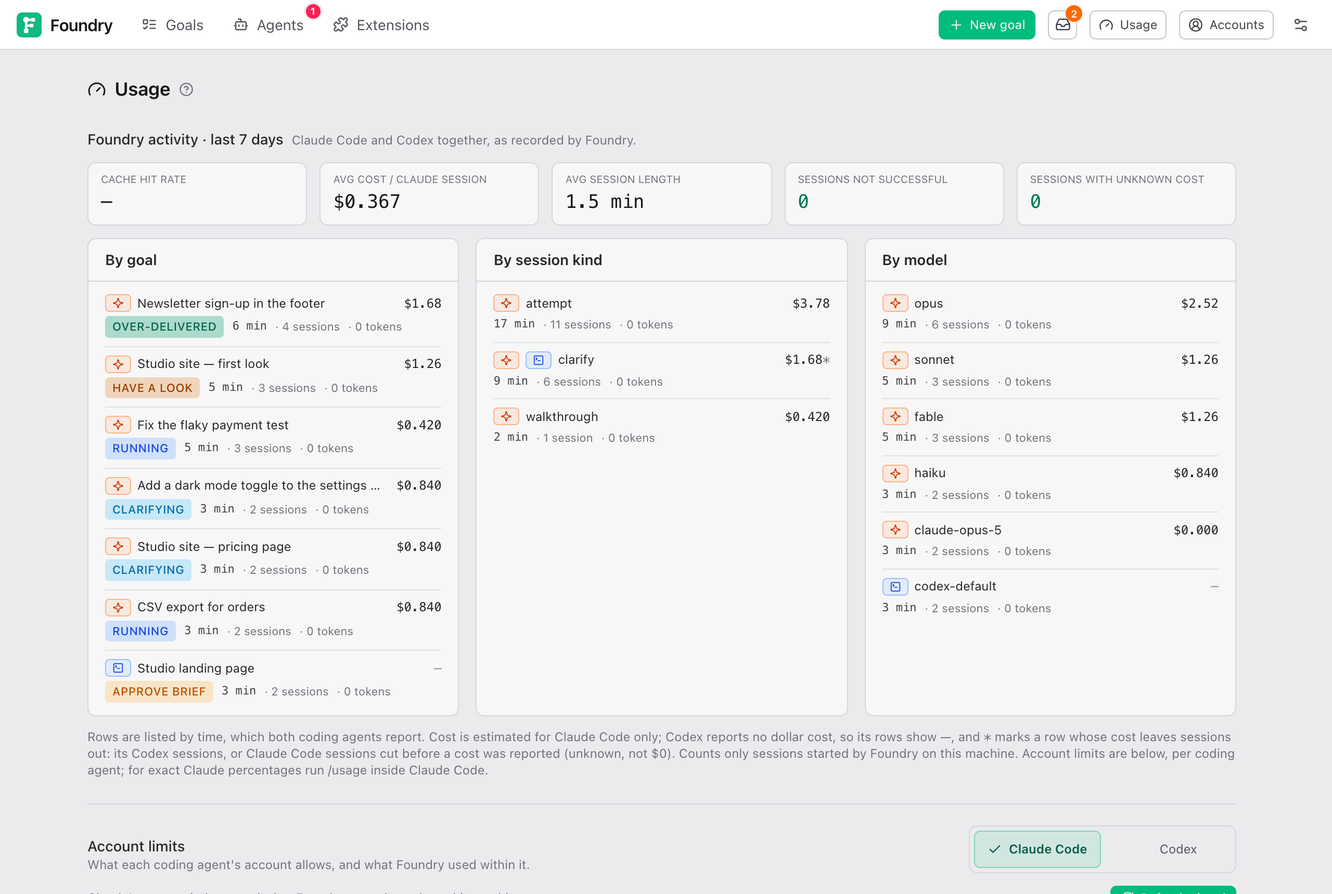
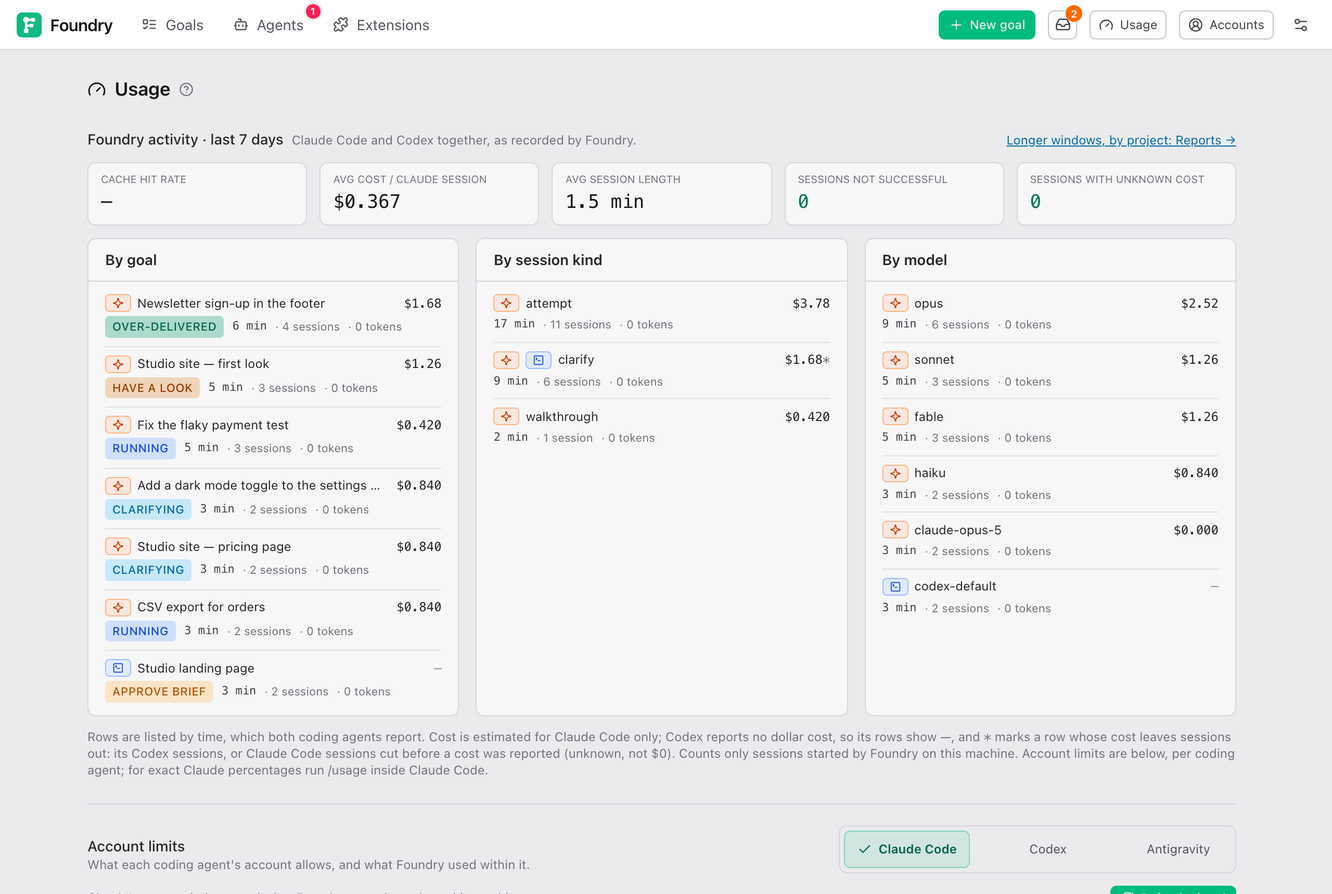
docs: the Antigravity CLI as a third coding agent (ADR-0064)
ADR-0064 records the choice (the Gemini CLI's successor, driven over its stream-json print mode with the guard and canary as workspace hooks, tokens not dollars, one model and effort per goal) and what is not verified here: no Antigravity account ran it, so the first real session has three things to confirm. docs/operate/antigravity.md is the operator guide beside codex.md; the user guide, install, remote-access, CONTEXT, README, architecture and the generated settings and CLI references now name three agents.

Changed region(s): [[0.625, 0.9244, 0.8125, 0.986], [0.75, 0.1541, 0.9062, 0.1849], [0.875, 0.9244, 0.9062, 0.9552]]

diff --git a/docs/operate/antigravity.md b/docs/operate/antigravity.md
@@ -1,0 +1,55 @@
+# Run Foundry with Antigravity
+
+Foundry can drive Claude Code, Codex CLI or the Antigravity CLI (`agy`, Google's successor to the Gemini CLI). All three share the goal, interview, Brief, worktree, acceptance-check, review and delivery engine; the launch profile selects defaults and the data directory, and each new goal picks its coding agent, which all of its sessions keep.
+
+## Shared engine, what Antigravity brings
+
+| Shared within one Foundry instance | Scoped to Antigravity |
+| --- | --- |
+| Goals, Briefs, worktrees, checks, reviews, delivery and event history | The native CLI process, conversation ids and the account it signed in with |
+| Global concurrency budget and notifications | One model and one reasoning effort for every role; `agy models` fills the list |
+| One Settings page and the same Coding agent selector | The skills in a project's `.agents/skills` and the shared `~/.agents/skills`; plugins and MCP servers managed in agy itself |
+| One Usage page and Agents monitor | Token counts (no USD cost, no account quota) |
+
+## From source
+
+Install Bun and git, then the Antigravity CLI (1.1.15 or newer: print mode with stream-json input) and sign in once from a terminal, which opens the browser:
+
+```sh
+curl -fsSL https://antigravity.google/cli/install.sh | bash   # or: brew install --cask antigravity-cli
+agy                                                            # sign in, then /quit
+bun install --frozen-lockfile
+bun run web:build
+bun run serve:agy
+```
+
+Open <http://127.0.0.1:4111>. Setup checks **Antigravity CLI** and **Antigravity sign-in**; the Accounts page shows the account the CLI is signed in with and says to run `agy` in a terminal when it is not. Foundry drives neither the sign-in nor the sign-out (`/logout` inside agy). A `GEMINI_API_KEY` works the way the CLI documents it: `modelProvider: gemini` in `~/.gemini/antigravity-cli/settings.json` and the key in the environment Foundry starts with.
+
+`bun run dev:agy` starts the development watcher. The equivalent production command is `FOUNDRY_PROVIDER=agy bun run serve`. The Antigravity launch profile defaults to `data-agy/`; set `FOUNDRY_DATA_DIR` for another place. Existing goals keep their backend.
+
+## Models and configuration
+
+Settings → **Models & limits** → **Coding agent → Antigravity** holds the **Antigravity model** every role of a new goal runs on (`agy-default` follows the model the CLI itself is set to; **Sync models** lists the slugs `agy models` knows) and the **Reasoning effort** (low, medium or high). A goal snapshots both at creation; `--agy-model` on the CLI or the New goal page pins another model for one goal. There are no presets and no fallback order: the CLI refuses an unknown model outright, and the session fails.
+
+| Variable | Purpose |
+| --- | --- |
+| `FOUNDRY_PROVIDER=agy` | Select Antigravity at startup |
+| `FOUNDRY_DATA_DIR` | Override the backend's default data directory |
+| `FOUNDRY_AGY_BIN` | Antigravity executable; defaults to `agy` on PATH |
+| `FOUNDRY_AGY_MODEL` | The model of every role; defaults to `agy-default` |
+
+Saved settings override the corresponding environment defaults; a changed binary needs a restart.
+
+## Permissions, skills and accounting
+
+- Every session runs with `--dangerously-skip-permissions` under Foundry's own guard: a `PreToolUse` hook in the workspace's `.agents/hooks.json`, added for the session and taken out after it (your own entries stay; the file is git-excluded). It keeps the boundary (no push, PR, deploy or publish from a session), denies the file tools to read-only roles, and counts tool calls against the goal's turn allowance. A `SessionStart` hook writes the session canary; a session whose canary never appears is stopped before it works.
+- Read-only roles are enforced on the file tools only; a shell command can still write. Codex has an operating-system sandbox for this; Antigravity's `--sandbox` is undocumented in its effect and is not used.
+- Antigravity reads the skills Foundry places in a project's `.agents/skills` (workflow suites, the Learnings notebook), as Codex does, and the shared `~/.agents/skills`. Plugins and MCP servers are managed in agy itself: Foundry keeps no MCP allowlist for Antigravity sessions and does not switch servers off for them.
+- Tokens, not dollars: goals on Antigravity keep time, attempt and concurrency limits and never a USD budget. Usage shows tokens per session; no account quota is read.
+- Autoskills, the `skills` CLI updates, skill telemetry and the external session history do not apply to Antigravity.
+
+## What is not verified here
+
+This integration follows the CLI's documentation; no Antigravity account ran it on the machine it was built on. The first real goal should confirm three things, each of which the session or Doctor reports when it is off: the workspace hooks run in print mode (else every session stops before work), structured output lands in the result's `structured_output`, and `agy -p /usage --output-format json` answers for a signed-in account.
+
+See the [first-goal guide](../guide/your-first-goal.md), the [model settings guide](../guide/settings.md#models--limits) and the [Codex guide](codex.md) for the second agent.

diff --git a/docs/guide/your-first-goal.zh.md b/docs/guide/your-first-goal.zh.md
@@ -13,13 +13,13 @@
 
 ## 账户与编码智能体
 
-点击顶栏 **Accounts**，分别查看 Claude Code 和 Codex。**Sign in to Codex** 使用 ChatGPT 设备授权：窗口会显示一次性验证码（带复制按钮）和 OpenAI 的设备授权页，在那里输入验证码并批准。验证码 15 分钟内有效，窗口也会等这么久；**Sign in to Claude Code** 使用 Claude 原生登录。凭据与本机 CLI 共用，在这里退出也会退出对应 CLI，但不会影响另一个提供商。执行期间不能登录或退出，CLI 请求也遵守同样的保护。Codex 只支持 ChatGPT 登录，不使用 API-key 模式；原生 CLI 提供邮箱和方案时会显示在账户卡片。Foundry 运行期间安装 CLI 后，下次账户检查即可识别；Setup 与 Accounts 都使用当前可执行文件。修改配置中的程序路径或原生配置目录仍需重启。
+点击顶栏 **Accounts**，分别查看 Claude Code、Codex 和 Antigravity。Antigravity 在终端里登录：运行一次 `agy`（它会打开浏览器），然后点 **Refresh status**。**Sign in to Codex** 使用 ChatGPT 设备授权：窗口会显示一次性验证码（带复制按钮）和 OpenAI 的设备授权页，在那里输入验证码并批准。验证码 15 分钟内有效，窗口也会等这么久；**Sign in to Claude Code** 使用 Claude 原生登录。凭据与本机 CLI 共用，在这里退出也会退出对应 CLI，但不会影响另一个提供商。执行期间不能登录或退出，CLI 请求也遵守同样的保护。Codex 只支持 ChatGPT 登录，不使用 API-key 模式；原生 CLI 提供邮箱和方案时会显示在账户卡片。Foundry 运行期间安装 CLI 后，下次账户检查即可识别；Setup 与 Accounts 都使用当前可执行文件。修改配置中的程序路径或原生配置目录仍需重启。
 
 使用 Accounts 顶部的 **Refresh status** 重新检查两个原生账户。检查期间保留现有卡片，预留状态行显示加载或错误，不会用加载文字替换整个页面。
 
 **Setup** 可选择 **Claude Code** 或 **Codex**；检查、登录、修复及技能安装均针对所选编码智能体。**Create your first goal** 会保留该选择。
 
-创建任务时，在 **Coding agent**（编码智能体）中选择 Claude Code 或 Codex。同一 Foundry 实例可以运行两种编码智能体；选定后，澄清、执行、重试、审核等会话始终使用该编码智能体，不会把会话交给另一种 CLI 恢复。两种编码智能体在 **Models** 下各有独立预设。Codex 创建任务时会保存预设中的各角色模型、推理强度和备用模型顺序。
+创建任务时，在 **Coding agent**（编码智能体）中选择 Claude Code、Codex 或 Antigravity。同一 Foundry 实例可以运行三种编码智能体；选定后，澄清、执行、重试、审核等会话始终使用该编码智能体，不会把会话交给另一种 CLI 恢复。两种编码智能体在 **Models** 下各有独立预设。Codex 创建任务时会保存预设中的各角色模型、推理强度和备用模型顺序。
 
 Codex 的预算选项只有时间、尝试次数和并发限制，没有美元上限。**Accounts** 列出了目前的适配限制。
 
@@ -139,7 +139,7 @@ Foundry 写 Brief 之前问你问得多深：**Skip**，然后是 **1** 到 **5*
 
 ### Models
 
-这个 goal 用哪个模型预设，由 **Coding agent** 决定使用 [Claude 预设](./settings.zh.md#presets) 还是 [Codex 预设](./settings.zh.md#codex-预设与模型)。**Default** 使用 Settings 为代码、文档或媒体类 goal 选定的预设；后面的名字就是那个预设，例如 **Default · Production**。换 goal 类型时它会跟着变。选 **Max**、**Production**、**Balanced**、**Economy** 或自定义预设，只为这个 goal 覆盖默认值。切换编码智能体会分别保留各自的选择。
+这个 goal 用哪个模型预设，由 **Coding agent** 决定使用 [Claude 预设](./settings.zh.md#presets) 还是 [Codex 预设](./settings.zh.md#codex-预设与模型)（Antigravity goal 则只有[一个模型和 effort](./settings.zh.md#antigravity-model)）。**Default** 使用 Settings 为代码、文档或媒体类 goal 选定的预设；后面的名字就是那个预设，例如 **Default · Production**。换 goal 类型时它会跟着变。选 **Max**、**Production**、**Balanced**、**Economy** 或自定义预设，只为这个 goal 覆盖默认值。切换编码智能体会分别保留各自的选择。
 
 Codex 的 **View … role assignments** 展开各角色将使用的模型与强度。勾选 **Use one model for every role in this goal**，才会把所有角色改为同一个模型；不勾选就保留预设中的各角色模型。可以从本机目录选择模型，也可用 **Custom model ID…** 输入具体 ID。覆盖选项中的 **CLI default model** 使用本机 Codex 配置。不覆盖时，预设中的 **Default model · from Settings** 使用 Settings 的 **Default Codex model**。覆盖模型后，仍保留各角色强度，除非你同时选择全任务 effort。
 

diff --git a/docs/guide/your-first-goal.md b/docs/guide/your-first-goal.md
@@ -13,11 +13,11 @@
 
 ## Agent accounts and coding agent
 
-Open **Accounts** in the header to see Claude Code and Codex separately. **Sign in to Codex** uses ChatGPT device authorization: the window shows a one-time code with a copy button and OpenAI's device page; enter the code there and approve. The code lasts 15 minutes, and the window waits as long. **Sign in to Claude Code** uses Claude's native login. Credentials belong to the local CLI: signing out here also signs out that CLI, but does not sign out the other provider. Foundry refuses sign-in and sign-out while work is active, including requests from the CLI. Codex supports ChatGPT sign-in only; API-key login is not used. The account card shows the native email and plan when available. Installing a CLI while Foundry is running is detected on the next account check; Setup and Accounts use the current executable. Changes to a configured binary path or native home still require a restart.
+Open **Accounts** in the header to see Claude Code, Codex and Antigravity separately. Antigravity signs in from a terminal: run `agy` once (it opens the browser), then **Refresh status**. **Sign in to Codex** uses ChatGPT device authorization: the window shows a one-time code with a copy button and OpenAI's device page; enter the code there and approve. The code lasts 15 minutes, and the window waits as long. **Sign in to Claude Code** uses Claude's native login. Credentials belong to the local CLI: signing out here also signs out that CLI, but does not sign out the other provider. Foundry refuses sign-in and sign-out while work is active, including requests from the CLI. Codex supports ChatGPT sign-in only; API-key login is not used. The account card shows the native email and plan when available. Installing a CLI while Foundry is running is detected on the next account check; Setup and Accounts use the current executable. Changes to a configured binary path or native home still require a restart.
 
 Use **Refresh status** at the top of Accounts to recheck both native accounts. The existing cards stay visible during the check; the reserved status row reports loading or an error without replacing the page.
 
-On **New goal**, choose **Coding agent** before creating the goal. Both providers can run in one Foundry instance. The selected coding agent stays fixed through clarification, workers, retries, reviews and delivery assistance; sessions never resume on another provider. Each coding agent has independent model presets under **Models**. Codex captures the preset's role models, reasoning efforts and fallback order when you create the goal.
+On **New goal**, choose **Coding agent** before creating the goal. All three coding agents can run in one Foundry instance. The selected coding agent stays fixed through clarification, workers, retries, reviews and delivery assistance; sessions never resume on another provider. Each coding agent has independent model presets under **Models**. Codex captures the preset's role models, reasoning efforts and fallback order when you create the goal.
 
 For Codex, budget presets cover time, attempts and concurrency. No USD budget is available. **Accounts** lists the current integration limits before you start.
 
@@ -137,7 +137,7 @@ How hard sessions of this goal think. An explicit value overrides every role. Fo
 
 ### Models
 
-Which model preset this goal uses: [Claude presets](./settings.md#presets) or [Codex presets](./settings.md#codex-presets-and-models), depending on **Coding agent**. **Default** uses the preset Settings picks for code, documents or media goals; the name after it, for example **Default · Production**, is that preset. It changes with the kind of goal. Pick **Max**, **Production**, **Balanced**, **Economy** or your own preset to override it for this goal. Switching providers preserves each one's selection.
+Which model preset this goal uses: [Claude presets](./settings.md#presets) or [Codex presets](./settings.md#codex-presets-and-models), depending on **Coding agent** (an Antigravity goal has [one model and effort](./settings.md#antigravity-model) instead). **Default** uses the preset Settings picks for code, documents or media goals; the name after it, for example **Default · Production**, is that preset. It changes with the kind of goal. Pick **Max**, **Production**, **Balanced**, **Economy** or your own preset to override it for this goal. Switching providers preserves each one's selection.
 
 For Codex, **View … role assignments** shows the model and effort each role will use. **Use one model for every role in this goal** enables an optional all-role model override; leaving it unticked preserves the preset's individual models. Choose a model from the local catalog or **Custom model ID…**. **CLI default model** in the override follows native Codex configuration. Without an override, preset entries set to **Default model · from Settings** use **Default Codex model** from Settings. The override keeps role efforts unless you also choose a goal-wide effort.
 

diff --git a/docs/develop/adr/0064-antigravity-cli-as-a-third-coding-agent.md b/docs/develop/adr/0064-antigravity-cli-as-a-third-coding-agent.md
@@ -1,0 +1,21 @@
+# ADR-0064: The Antigravity CLI as a third coding agent
+
+**Status:** accepted · 2026-10-21 · amends [ADR-0017](0017-fixed-goal-providers-and-independent-accounts.md) (fixed goal providers)
+
+## Context
+
+The Gemini CLI was retired for individual accounts on 2026-06-18; Google's successor is the Antigravity CLI (`agy`). It has a documented print mode: newline-delimited JSON in and out (`--input-format stream-json`, `--output-format stream-json`), structured output through `--json-schema`, a conversation resumed by id (`--conversation`), three effort levels, hooks read from a workspace file, and token counts rather than dollar costs. Foundry's roadmap asked for a third coding agent beside Claude Code and Codex. Nothing of agy runs on the machine this was built on: the adapter follows the CLI's documentation and is tested against a stand-in that behaves as documented.
+
+## Decision
+
+A third provider, `agy`, beside `claude` and `codex`, fixed per goal as ADR-0017 fixes the others. The shared enum `AgentProvider` lives in core (`schema/provider.ts`) with two helpers, `reportsDollars` and `agentsFolder`, so that engine code says what it means (no dollar costs; the `.agents` folder) instead of naming Codex at every such place.
+
+The adapter (`AgyCliRunner`, runner package) runs one turn per session: the prompt goes down stdin as a `user` event with the role text ahead of it (the CLI has no developer-instructions switch), `--json-schema` carries the role's output schema, `--conversation` resumes, `--effort` takes Foundry's effort words mapped to low, medium and high, `--dangerously-skip-permissions` leaves approvals to Foundry's own guard, `--disable-slash-commands` keeps a prompt from being read as a command, and `--print-timeout` sits a minute past Foundry's own deadline. Answers stream as fragments the decoder joins per step; a tool step carries its call and output in one record.
+
+Foundry's guard is a `PreToolUse` hook and its canary a `SessionStart` hook in the workspace's `.agents/hooks.json`, added for the run under a key of the session's own and taken out after it; the person's entries stay, the file goes when the last Foundry entry does and there was none before, and the path is git-excluded so a worker's commit never carries it. The guard keeps the boundary (no push, PR, deploy or publish), the read-only roles on the file tools, and the tool-call allowance that stands in for a turn cap. A session whose canary never appears is stopped before it works, as a Codex session is.
+
+Antigravity reports tokens, so its goals keep time, attempt and concurrency limits and never a USD budget; calibration, reports and estimates in dollars leave them out. One model serves every role of a goal (`models.agyModel`, `agy-default` following the CLI's own setting) at one effort (`models.agyEffort`); `agy models` fills the registry; there are no presets and no fallback order, since the CLI refuses an unknown model outright. The account's state is read with a read-only `agy -p /usage --output-format json`; signing in happens in a terminal (the CLI opens the browser) and signing out inside agy, neither driven by Foundry. Skills Foundry places in a project's `.agents/skills` (workflow suites, the Learnings notebook) are read as Codex reads them; the shared `~/.agents/skills` is the user-level inventory. Plugins and MCP servers are managed in agy itself: Foundry keeps no MCP allowlist for it and `strictMcp` is not enforced; autoskills, the `skills` CLI updates, skill telemetry and external session history do not apply. A profile is `FOUNDRY_PROVIDER=agy` with `data-agy/`, `FOUNDRY_AGY_BIN` and `FOUNDRY_AGY_MODEL`; Doctor's rows are `agy-bin`, `agy-auth` and `agy-config`.
+
+## Consequences
+
+The protocol facts come from the CLI's documentation, not from a run: the payload of `/usage`, the JSON of `agy models`, the field names of a hook's input, and whether print mode loads workspace hooks are read defensively and reported by Doctor and by the session's own error. The first real session to try: the canary must appear (else every session fails closed), structured output must land in `structured_output`, and denied actions must surface. Two Foundry sessions in one folder run each other's guards; a guard only denies, so the stricter policy wins. Read-only roles are enforced on the file tools only: a shell write slips past the guard, where Codex has an operating-system sandbox (agy's `--sandbox` is undocumented in its effect and is not used). The CLI's known defects, an empty SUCCESS and a dropped stream, become failed sessions the attempt loop retries.

diff --git a/docs/operate/cli.md b/docs/operate/cli.md
@@ -11,7 +11,7 @@ foundry — drive the host Claude Code or Codex CLI to deliver on goals
   goal new "<prompt>" --repo <path>       create a goal (Clarify → Brief → approve in UI or via `brief`)
        [--issue <link|owner/name#12|#12>]   a goal from a GitHub issue (needs gh, logged in): its title and body stand in for the
                                           prompt when none is given, its thread is attached, and the pull request closes it
-       [--provider claude|codex] [--codex-model <model ID>]   backend fixed for this goal; follow-ups inherit it
+       [--provider claude|codex|agy] [--codex-model <model ID>] [--agy-model <model ID>]   backend fixed for this goal; follow-ups inherit it
        [--title t] [--base branch] [--preset auto|quick|thorough|unlimited|custom] [--max-cost 5|none] [--max-min 120|none] [--concurrency 3] [--attempts 3]
        [--auto-approve --check "<cmd>"]... [--stretch "<cmd>"]...   skip Clarify: one task + command checks
        [--models max|production|balanced|economy|<your preset>]   Selected agent model preset (default: Settings' preset for the goal type)
@@ -40,14 +40,14 @@ foundry — drive the host Claude Code or Codex CLI to deliver on goals
   diff <goalId>                           print the goal branch diff
   cancel <goalId>
   replay --verify                         rebuild read models from the event log and compare
-  doctor [--provider claude|codex] [--json]                         environment check: selected agent, login, git, bun, required skills
+  doctor [--provider claude|codex|agy] [--json]                         environment check: selected agent, login, git, bun, required skills
   skills list [--scope user|plugin|project|all] [--repo <path>] [--json]
   skills catalog                          required / recommended / optional skills and their status
   skills install <id|name> [--force]      install into the selected agent's skills directory
   skills install --tier required|recommended
   skills uninstall <name> [--force]       move to trash (reversible)
   skills restore <name> · skills update [name] · skills trash
-       All skills commands accept --provider claude|codex (default: the running instance).
+       All skills commands accept --provider claude|codex|agy (default: the running instance).
   deliver <goalId> [--mode push|pr|pr-automerge ...]   deliver a finished goal (no --mode: print the plan)
   export [--out <file>] [--settings] [--secrets] [--goals all|<id,id>] [--transcripts] [--password-stdin]
                                           write a Transfer file for another Foundry (no category flag: Settings and every goal)
@@ -58,13 +58,13 @@ foundry — drive the host Claude Code or Codex CLI to deliver on goals
                                           differing Settings sections are taken unless kept with --keep-mine
   reattach <goalId> [--repo <path>]       carry an unfinished imported goal on here (--repo maps its repository first)
   github [status|login]                   GitHub CLI status / device-flow login (needed for PR modes)
-  auth [status|login|logout] [--provider claude|codex]
+  auth [status|login|logout] [--provider claude|codex|agy]
                                           Independent account; running server owns login/logout and protects active work
                                           An explicit FOUNDRY_URL must be reachable; it never falls back to local auth
   access [list|add <name>|revoke <id>] [--json]
                                           Who may use this Foundry from elsewhere: each person a token; once anyone has one,
                                           every request needs one (FOUNDRY_TOKEN here, the sign-in page in a browser)
-  usage [--provider claude|codex] [--json] [--probe]
+  usage [--provider claude|codex|agy] [--json] [--probe]
                                           Activity and available account quota; --probe refreshes status (Claude consumes quota)
                                           Codex shows only reported account windows; weekly-only accounts are supported
   report [--days 30|90|365] [--all] [--json]

diff --git a/docs/develop/architecture.md b/docs/develop/architecture.md
@@ -1,6 +1,6 @@
 # Architecture
 
-Foundry is a Bun/TypeScript monorepo. It drives the host's Claude Code CLI (`claude -p --output-format stream-json`) or Codex CLI (`codex exec --json`) to turn a Goal into a Brief, the Brief into a Task DAG, and each Task into Attempts. Attempts are checked, reviewed and squashed onto a Goal branch, and the finished branch can be delivered as a push or pull request. This page explains how the pieces fit together, so you know where to make a change. Terms in **bold** or Capitalised are defined in [CONTEXT.md](../../CONTEXT.md).
+Foundry is a Bun/TypeScript monorepo. It drives the host's Claude Code CLI (`claude -p --output-format stream-json`) Codex CLI (`codex exec --json`) or the Antigravity CLI (`agy --input-format stream-json --output-format stream-json`) to turn a Goal into a Brief, the Brief into a Task DAG, and each Task into Attempts. Attempts are checked, reviewed and squashed onto a Goal branch, and the finished branch can be delivered as a push or pull request. This page explains how the pieces fit together, so you know where to make a change. Terms in **bold** or Capitalised are defined in [CONTEXT.md](../../CONTEXT.md).
 
 ## Packages
 
@@ -18,12 +18,13 @@ flowchart LR
   web -.->|"@foundry/core/browser"| core
   runner -->|spawns| claude(["claude -p (host CLI)"])
   runner -->|spawns| codex(["codex exec (host CLI)"])
+  runner -->|spawns| agy(["agy (host CLI)"])
 ```
 
 | Workspace | Owns | Entry points |
 |---|---|---|
 | `packages/core` | Zod schemas for every entity (`src/schema/*`), the event union (`src/events.ts`), the SQLite event store and its projections (`src/store/*`), and pure domain helpers (`src/machine/*`: DAG sort and depths, Brief coverage, Decisions, transition tables). No I/O apart from SQLite. | `src/index.ts`; `src/browser.ts` is the browser-safe subset the web app imports |
-| `packages/runner` | `ClaudeCliRunner` and `CodexCliRunner`, which normalize native JSON streams to shared `RunnerEvent` / `RunResult` contracts. Owns process cancellation, hooks, sandbox configuration and the concurrency semaphore; Codex uses `codex-stream-codec.ts` and `codex-guard.ts`. | `src/index.ts` |
+| `packages/runner` | `ClaudeCliRunner`, `CodexCliRunner` and `AgyCliRunner` (ADR-0064), which normalize native JSON streams to shared `RunnerEvent` / `RunResult` contracts. Owns process cancellation, hooks, sandbox configuration and the concurrency semaphore; Codex uses `codex-stream-codec.ts` and `codex-guard.ts`. | `src/index.ts` |
 | `packages/engine` | The `Engine` class and everything that decides what happens next: the tick, scheduler, attempt loop, Clarify/Interview, Draft/Revise, reviews, merges and catch-up, milestones, delivery, preview and self-check, notifications, models and presets, skills, settings, self-update, the agents monitor and the usage ledger. | `src/engine.ts`, `src/index.ts`, `src/config.ts` (`defaultConfig`) |
 | `packages/server` | The Hono HTTP API (`src/app.ts`) and the `Bun.serve` wrapper with the `/ws` WebSocket (`src/index.ts`). It also serves `apps/web/dist`. | `startServer(engine)` |
 | `apps/web` | The UI: React 18, react-router, zustand, Tailwind v4, built by Vite into `apps/web/dist`. | `src/App.tsx` (routes), `src/store.ts` (WS client + live store), `src/api.ts` |

diff --git a/docs/operate/configuration.md b/docs/operate/configuration.md
@@ -40,6 +40,8 @@ Every setting lives in **Settings** in the web UI and is saved to `data/settings
 | `models.codexPresetDocs` | `balanced` | — | Codex preset for document and research goals. |
 | `models.codexPresetMedia` | `balanced` | — | Codex preset for image and video goals. |
 | `models.codexFallbacks` | — | — | Codex fallback model IDs, tried in order only for model-unavailability errors. Captured per new goal; empty pauses for a decision. Does not switch providers or retry authentication and quota errors with another model. |
+| `models.agyModel` | `agy-default` | `FOUNDRY_AGY_MODEL` | The model every role of a new Antigravity goal runs on. agy-default follows the model the CLI itself is set to. |
+| `models.agyEffort` | `high` | — | The Antigravity reasoning effort of every role: low, medium or high. |
 | `models.cheap` | `haiku` | `FOUNDRY_MODEL_CHEAP` | Housekeeping model: one-turn engine chores (classifying a goal, summarising logs, the rate-limit probe). |
 | `models.fallbacks` | `opus, sonnet, haiku` | `FOUNDRY_MODEL_FALLBACKS` | Tried in order when a model is unavailable; the replacement is remembered for that goal. |
 | `models.presets` | — | — | Presets you edited or created (edit them in the Presets editor, not by hand). Built-ins you never touched are not stored. |
@@ -146,6 +148,7 @@ Every setting lives in **Settings** in the web UI and is saved to `data/settings
 | `engine.provider` *(restart)* | `claude` | `FOUNDRY_PROVIDER` | Installation default (claude or codex), fixed at launch. Each new goal can select either coding agent; existing goals keep theirs. |
 | `engine.codexBin` *(restart)* | — | `FOUNDRY_CODEX_BIN` | Codex CLI path; empty uses codex on PATH. Requires hooks support. |
 | `engine.codexHome` *(restart)* | — | `FOUNDRY_CODEX_HOME (or CODEX_HOME)` | Codex configuration and login directory; empty uses CODEX_HOME or ~/.codex. |
+| `engine.agyBin` *(restart)* | — | `FOUNDRY_AGY_BIN` | Antigravity CLI path; empty uses agy on PATH. Needs 1.1.15 or newer (stream-json input). |
 | `engine.port` *(restart)* | `4111` | `FOUNDRY_PORT` | Port the UI and API listen on. |
 | `engine.host` *(restart)* | `127.0.0.1` | `FOUNDRY_HOST` | Interface to bind; keep 127.0.0.1 unless the people using it have tokens (Settings → Access). |
 | `engine.claudeBin` *(restart)* | — | — | Path to the claude CLI; empty = first on PATH. |

diff --git a/docs/operate/install.md b/docs/operate/install.md
@@ -1,6 +1,6 @@
 # Install Foundry
 
-Foundry drives Claude Code or Codex against git repositories you already have. Each goal keeps its chosen backend; both can run in one instance. Codex uses ChatGPT sign-in only. See [Run Foundry with Codex](codex.md) for the native capability differences. You can run it in two ways:
+Foundry drives Claude Code, Codex or the Antigravity CLI against git repositories you already have. Each goal keeps its chosen backend; all three can run in one instance. Codex uses ChatGPT sign-in only. See [Run Foundry with Codex](codex.md) for the native capability differences. You can run it in two ways:
 
 | | Locally, from source | In Docker |
 |---|---|---|
@@ -28,6 +28,7 @@ Both serve the web UI on `http://127.0.0.1:4111`.
 - For Claude goals: the Claude Code CLI, `claude` on your `PATH`, signed in. Install it with its native installer,
   `curl -fsSL https://claude.ai/install.sh | bash` (no npm needed), or `npm install -g @anthropic-ai/claude-code`. The Docker image ships 2.1.259; the Fable 5.1 model needs at least that version.
 - For Codex goals: a hooks-capable Codex CLI, `codex` on your `PATH`, signed in with ChatGPT. This Dockerfile pins 0.160.0. Install with `brew install --cask codex` (macOS), `npm install -g @openai/codex`, or the release binary from [github.com/openai/codex](https://github.com/openai/codex/releases); run `codex login`.
+- For Antigravity goals: the Antigravity CLI, `agy` on your `PATH` (1.1.15 or newer), signed in once from a terminal. Install with `curl -fsSL https://antigravity.google/cli/install.sh | bash` or `brew install --cask antigravity-cli`; see [antigravity.md](antigravity.md).
 - [graphify](https://github.com/safishamsi/graphify). It is the one *required* entry in the skills catalog; the
   doctor reports an error until it is installed. Its installer uses [uv](https://docs.astral.sh/uv/).
 - Optional: Node.js 22 or newer (project skills via `npx autoskills` need it), the GitHub CLI `gh` (only for

diff --git a/docs/operate/README.md b/docs/operate/README.md
@@ -3,7 +3,7 @@
 This track is for the person who installs Foundry, keeps it running, configures it, updates it and fixes it when
 something goes wrong. You work with terminals, Docker and config files, but you do not change Foundry's code.
 
-Foundry is a local orchestrator. It drives the Claude Code and Codex CLIs on one machine to plan and deliver goals in your
+Foundry is a local orchestrator. It drives the Claude Code, Codex and Antigravity CLIs on one machine to plan and deliver goals in your
 repositories. The web UI runs on `http://127.0.0.1:4111`. You can run it from source with Bun, or in Docker
 (image `imlouiskhenghao/foundry`). These pages describe this source revision; what each published release contains is in the [changelog](https://github.com/louiskhenghao/foundry-releases/blob/main/CHANGELOG.md).
 
@@ -13,6 +13,7 @@ repositories. The web UI runs on `http://127.0.0.1:4111`. You can run it from so
 |---|---|
 | [install.md](./install.md) | Requirements, installing locally or with Docker, signing in to each backend, mounting repositories, first-run checks. |
 | [codex.md](./codex.md) | ChatGPT-only sign-in, independent model presets, native extensions, quota windows and capability limits. |
+| [antigravity.md](./antigravity.md) | The Antigravity CLI (`agy`) as a third coding agent: terminal sign-in, one model and effort per goal, hooks-based guard, tokens not dollars, what is not verified. |
 | [updates-and-backup.md](./updates-and-backup.md) | Where Foundry keeps its data, backup and restore, self-update, release channel. |
 | [remote-access.md](./remote-access.md) | Using Foundry from your phone or laptop over Tailscale, and keeping the machine running while you are away. |
 | [notifications.md](./notifications.md) | Setting up Telegram and Discord messages. |

diff --git a/docs/guide/README.zh.md b/docs/guide/README.zh.md
@@ -7,7 +7,7 @@
 Foundry 是一个在你自己电脑上运行的网页应用，地址是 <http://127.0.0.1:4111>。
 你用大白话描述一个 goal：一个功能、一个修复、一份文档、一份报告、几张图片。
 Foundry 读你的项目，问你只有你能决定的事，然后写一份叫 **Brief** 的计划。
-你批准 Brief 之后，它就驱动你选定的 Claude Code 或 Codex 去干活，并检查、审查做出来的结果。
+你批准 Brief 之后，它就驱动你选定的 Claude Code、Codex 或 Antigravity 去干活，并检查、审查做出来的结果。
 做好的东西放在一个单独的分支上；Foundry 只会按你选择的交付策略推送或发布成果。
 
 ![Goals 页面：六个 goal，各处在一个状态，每个都显示任务进度和相对预算的花费](images/goals.png)
@@ -28,7 +28,7 @@ Foundry 读你的项目，问你只有你能决定的事，然后写一份叫 **
 
 | 词 | 意思 |
 |---|---|
-| **Coding agent**（编码智能体） | Claude Code 或 Codex，在创建 goal 时选择，之后固定。账户和权限互相独立。 |
+| **Coding agent**（编码智能体） | Claude Code、Codex 或 Antigravity，在创建 goal 时选择，之后固定。账户和权限互相独立。 |
 | **Goal** | 你想做成的一件事，用大白话写，在一个项目文件夹里。 |
 | **Brief** | Foundry 写的计划，任何工作开始前都要你批准。 |
 | **Area** | goal 涉及的产品的某一部分，比如"学生端""教师端"或"公共基础"。每个任务都属于一个 Area。 |

diff --git a/docs/guide/README.md b/docs/guide/README.md
@@ -7,7 +7,7 @@
 Foundry is a web app that runs on your own computer, at <http://127.0.0.1:4111>.
 You describe a goal in plain words: a feature, a fix, a document, a report, some images.
 Foundry reads your project, asks what only you can decide, and writes a plan called the **Brief**.
-Once you approve the Brief, it drives your chosen coding agent, Claude Code or Codex, to do the work, checks it and reviews it.
+Once you approve the Brief, it drives your chosen coding agent, Claude Code, Codex or Antigravity, to do the work, checks it and reviews it.
 You get the finished work on a separate branch, and Foundry only pushes or publishes it under the delivery policy you chose.
 
 ![The Goals page: six goals, one in each state, each with its tasks and its cost against the budget](images/goals.png)
@@ -28,7 +28,7 @@ Between steps 3 and 7 Foundry only stops for a short list of reasons. They are a
 
 | Word | What it means |
 |---|---|
-| **Coding agent** | Claude Code or Codex, chosen when creating a goal and fixed for its lifetime. Accounts and permissions are independent. |
+| **Coding agent** | Claude Code, Codex or Antigravity, chosen when creating a goal and fixed for its lifetime. Accounts and permissions are independent. |
 | **Goal** | One thing you want done, written in plain words, in one project folder. |
 | **Brief** | The plan Foundry writes and you approve before any work starts. |
 | **Area** | A part of the product the goal touches, for example "student portal", "teacher portal", or "shared groundwork". Every task belongs to one. |

diff --git a/docs/develop/adr/README.md b/docs/develop/adr/README.md
@@ -68,3 +68,4 @@ record is never rewritten when a later decision changes it; its status says what
 | [0061](0061-access-tokens.md) | Access: a token per person, shown once and kept as a fingerprint beside the data; with no one on the list no login, with anyone every request carries a token (a bearer header or the sign-in cookie); who asked for a goal, approved its Brief or answered an Inbox item is recorded; a light lock for a shared tailnet, not a perimeter | accepted · 2026-10-21 · builds on ADR-0003 and ADR-0038 |
 | [0062](0062-role-prompt-regression-set.md) | A role-prompt regression set: five small fixed goals run by a maintainer against the real coding agent after a suite or model bump, judged on the finished checkout (checks, allowed files, budget), summed up and compared with a saved baseline; never in CI | accepted · 2026-10-21 · builds on ADR-0004 and ADR-0047 |
 | [0063](0063-companion-repositories.md) | Companion repositories: a goal that changes several folders names the others; each part is a `goal` task bound to its folder, done by a delegated goal there on its own base branch that lands nothing here, and delivered with the main goal as a pull request of its own | accepted · 2026-10-21 · builds on ADR-0034 and ADR-0035 |
+| [0064](0064-antigravity-cli-as-a-third-coding-agent.md) | The Antigravity CLI (`agy`) as a third coding agent: one turn per session over stream-json, the guard and canary as workspace hooks, tokens not dollars, one model and effort per goal | accepted · 2026-10-21 · amends ADR-0017 |
